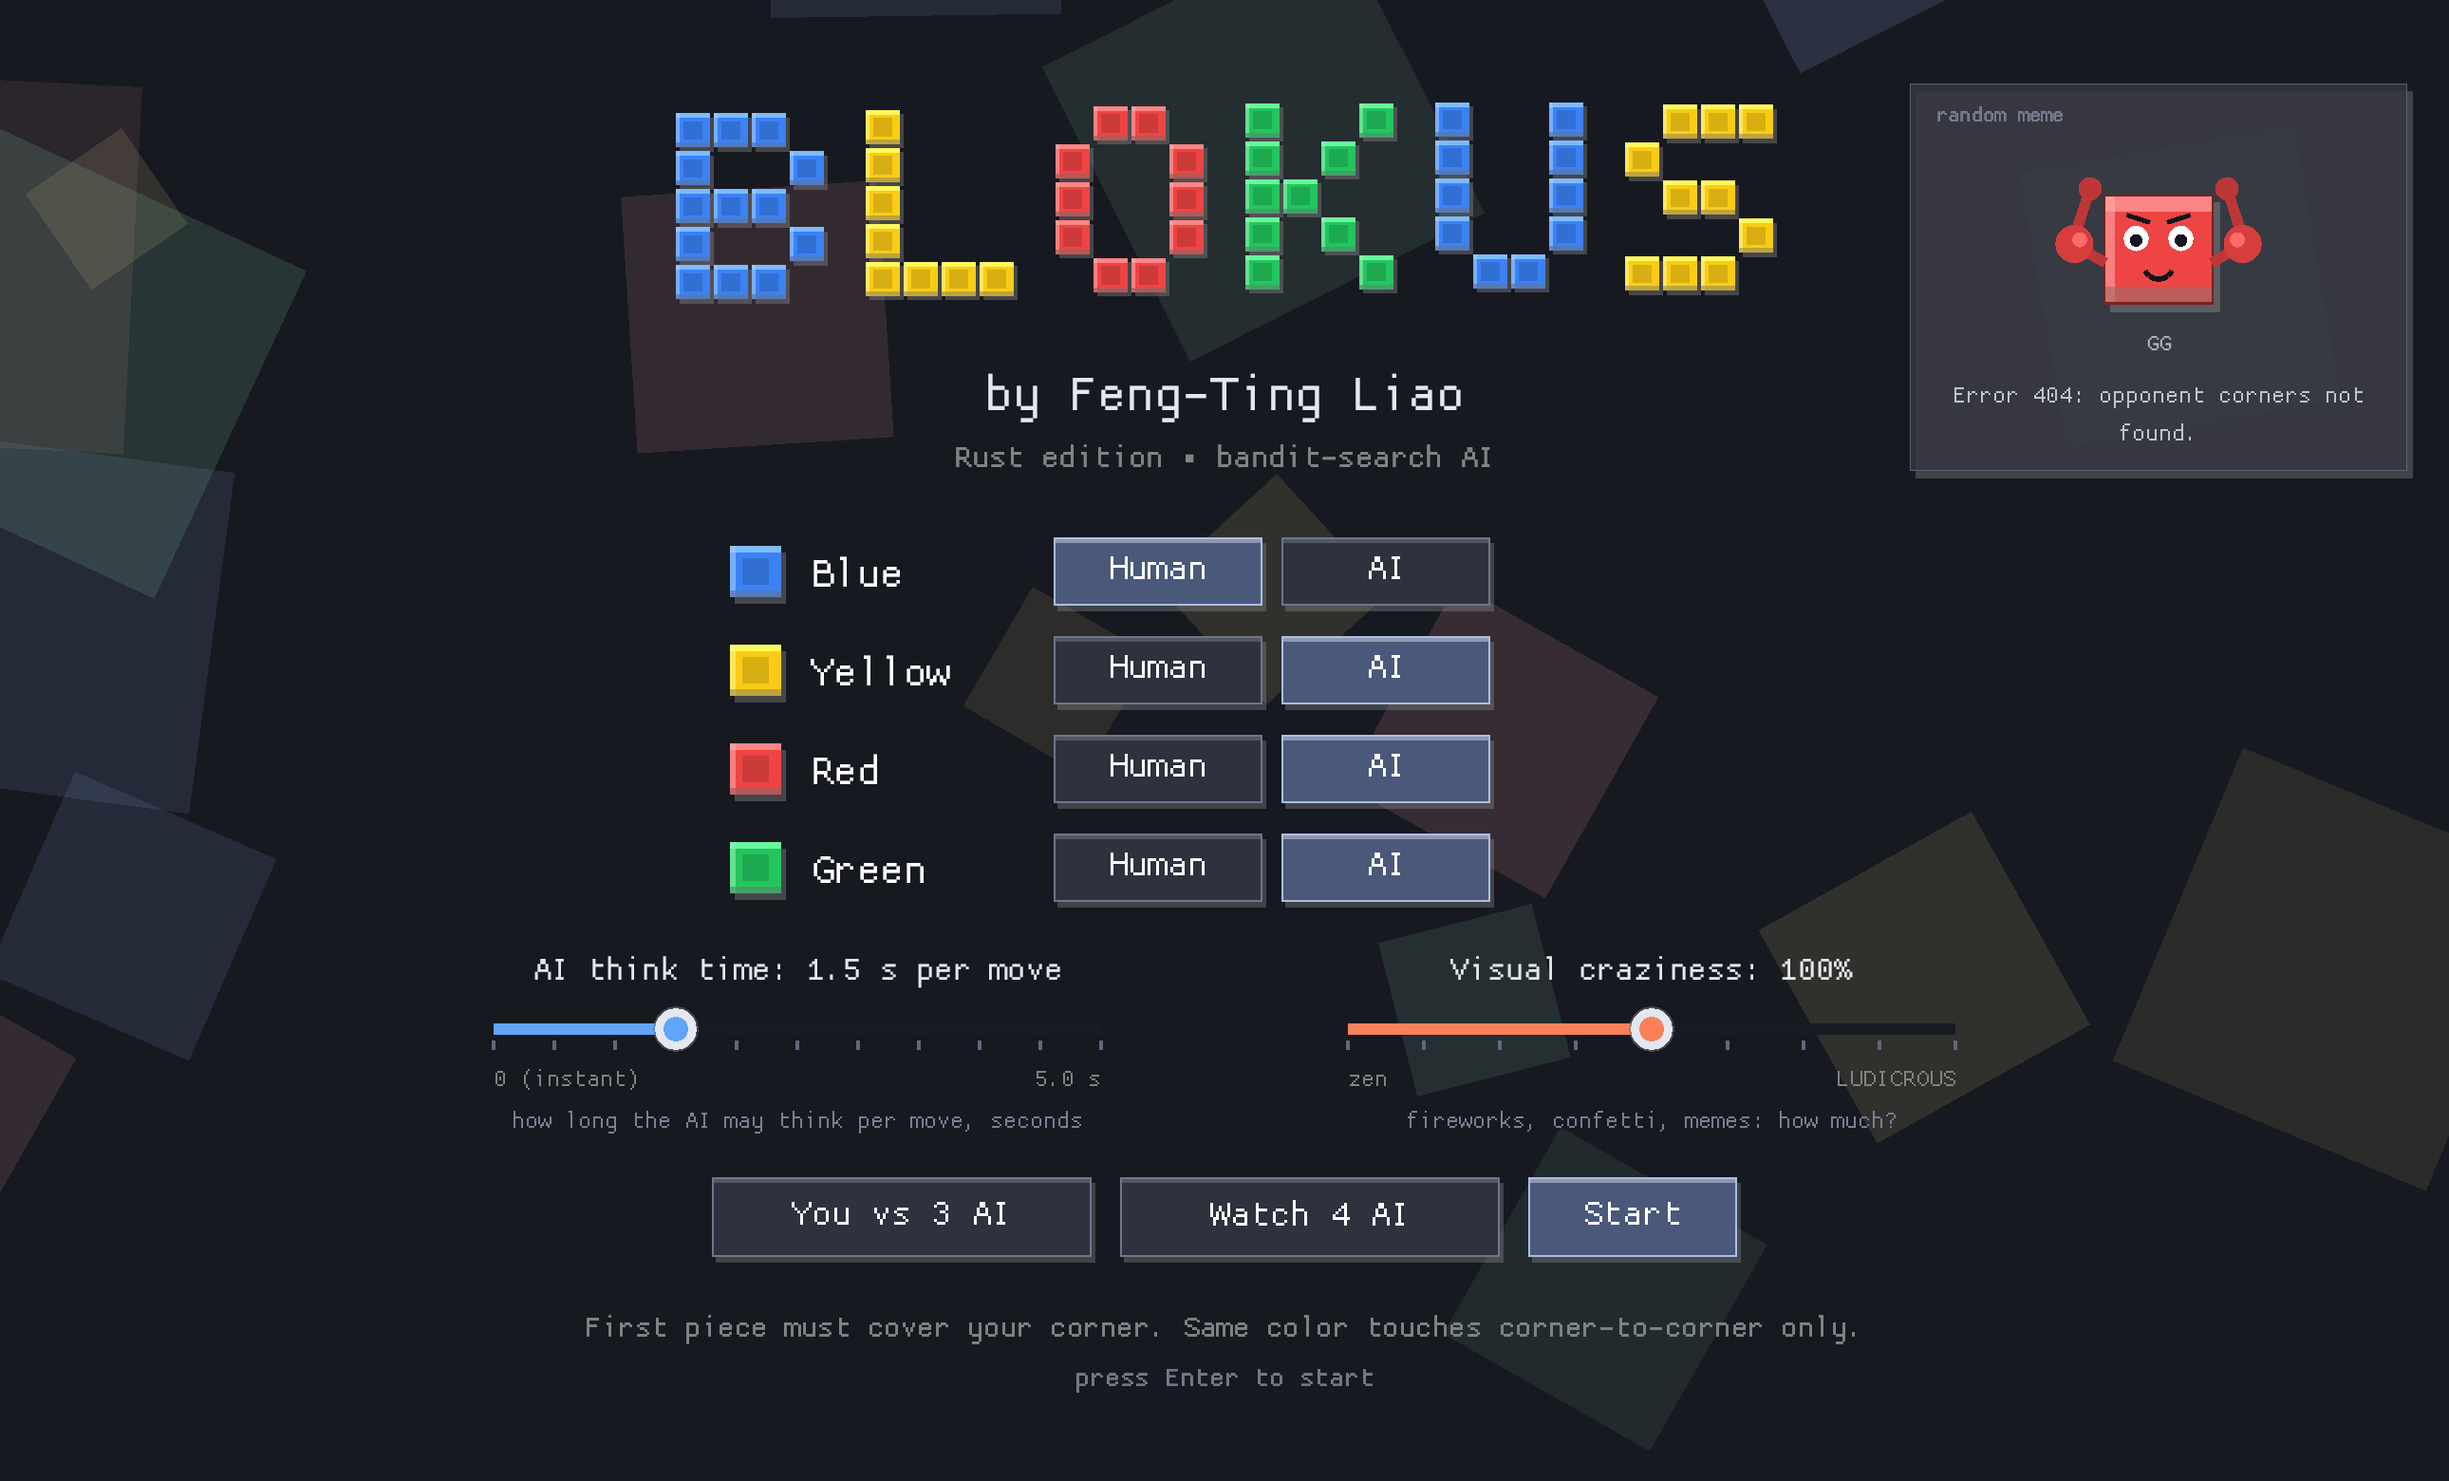
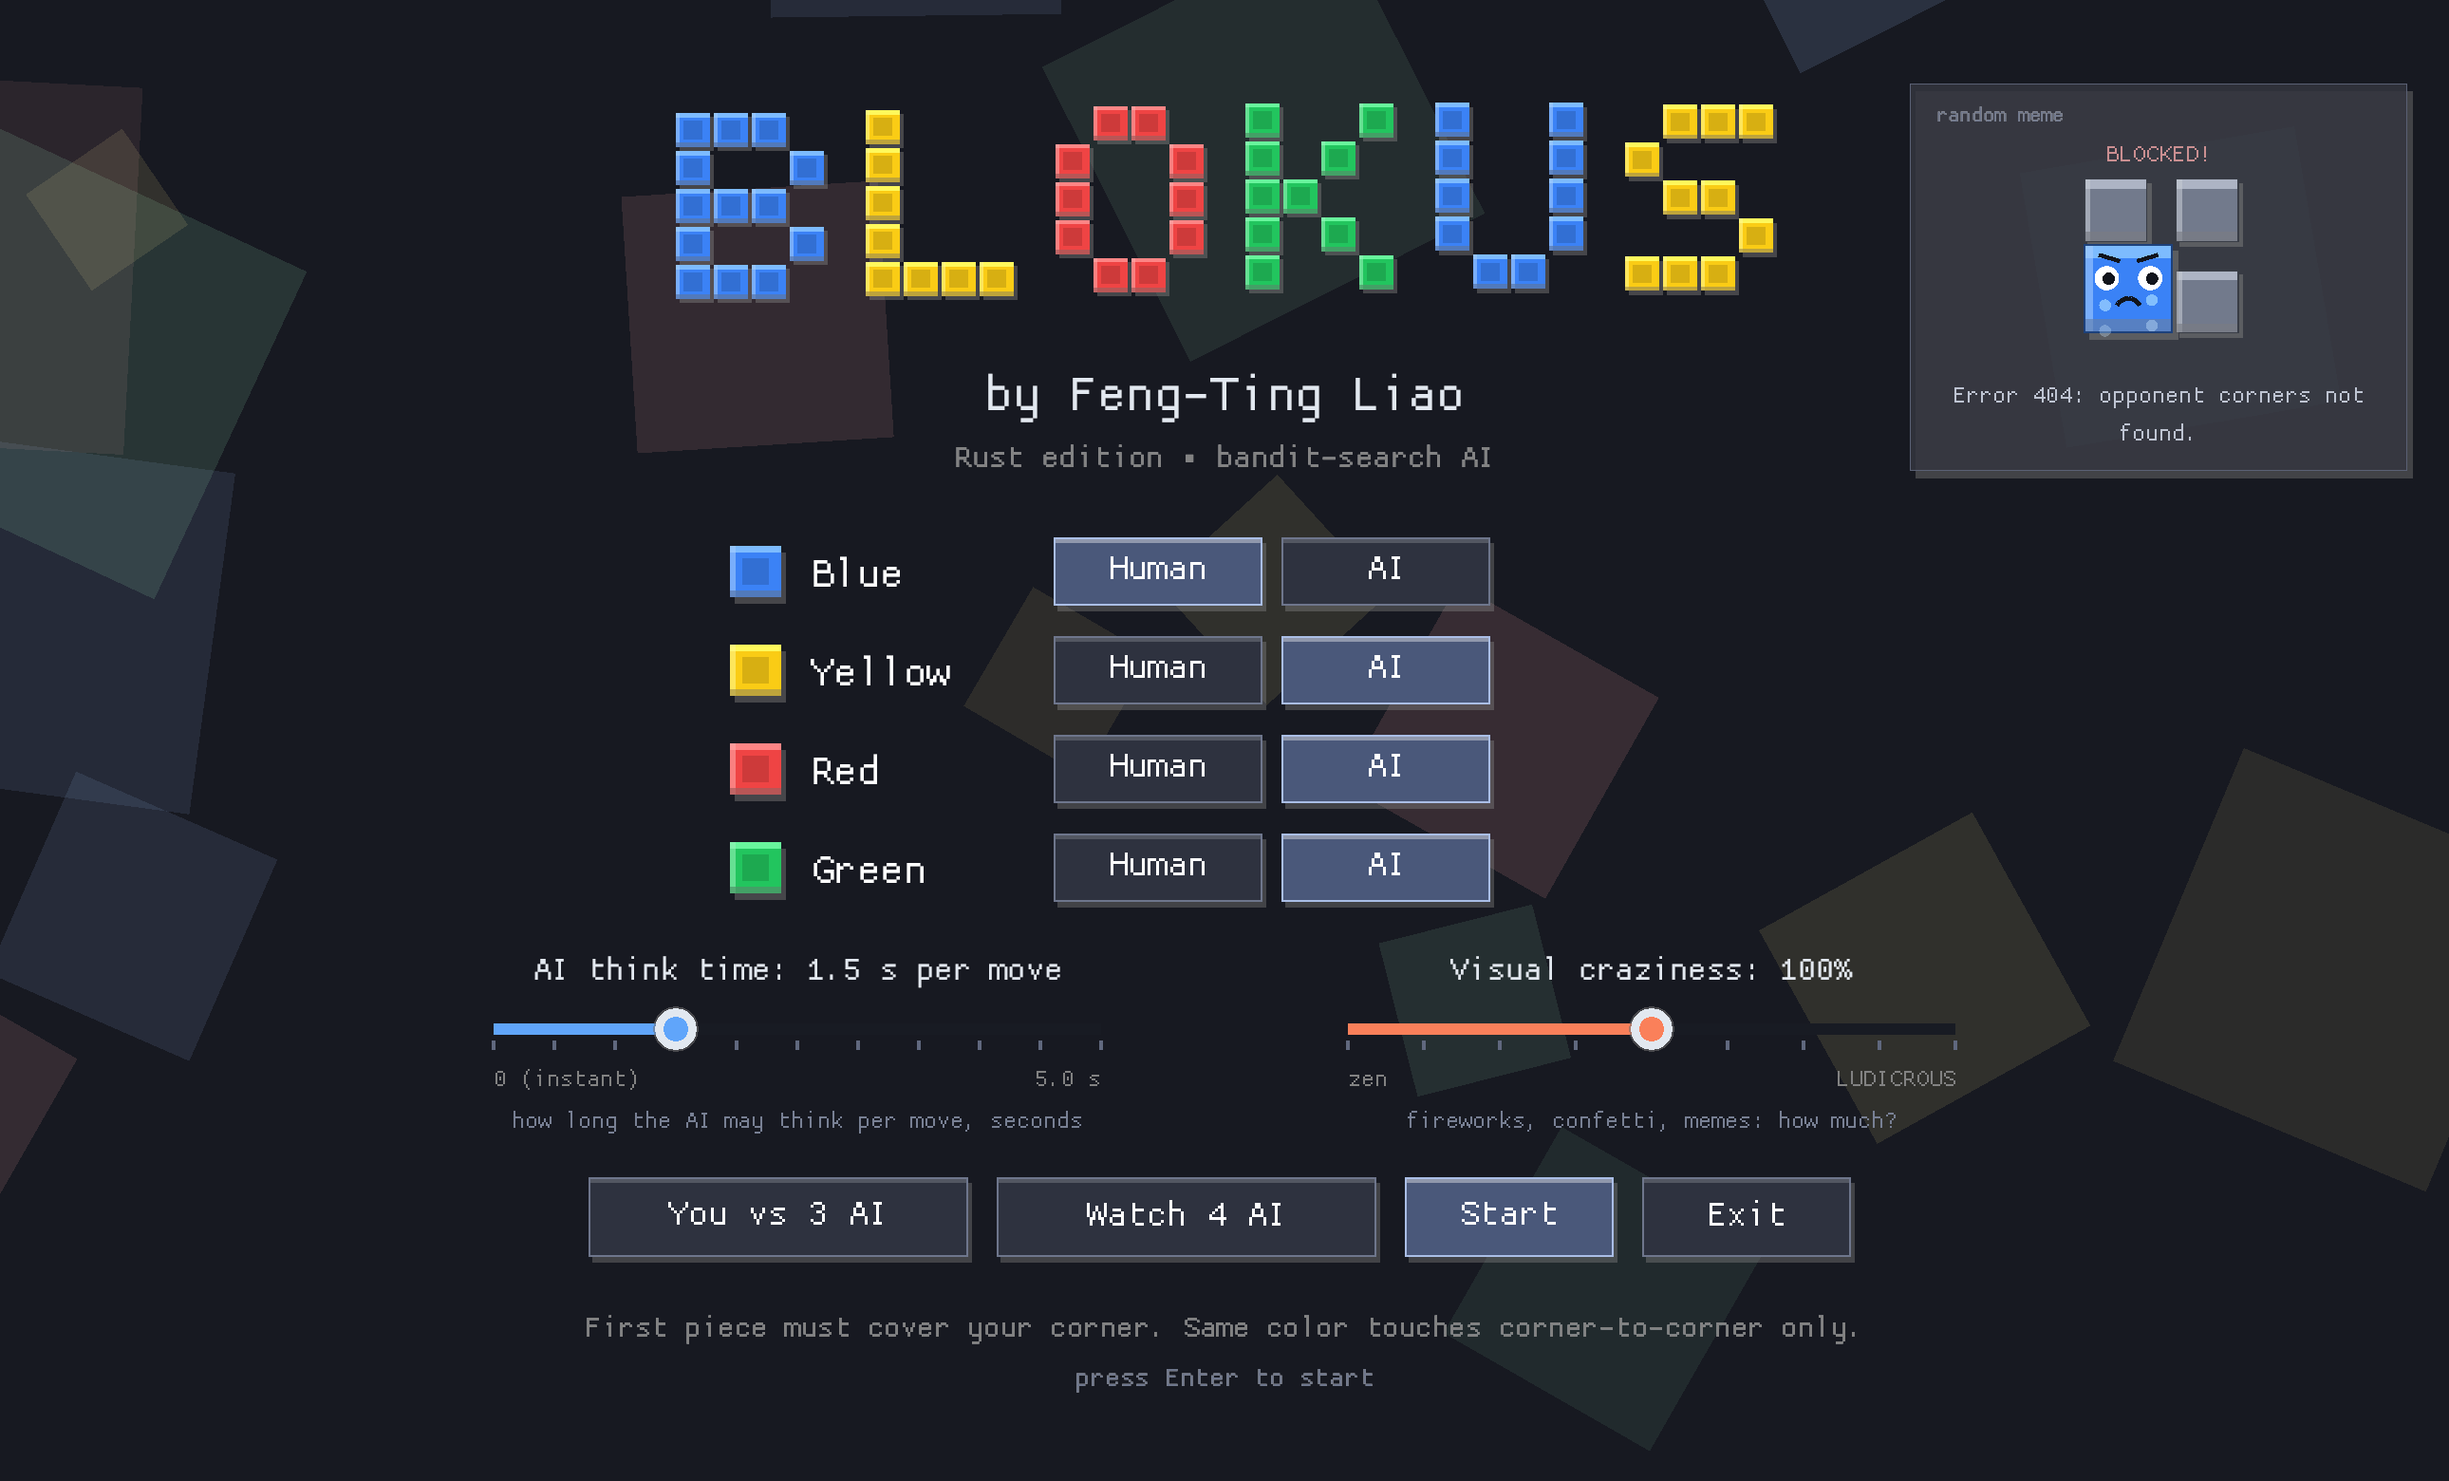
v2.3: fix music overlap, add crossfades, shuffle tracks, menu/exit buttons
- Fix: rotation started the next gameplay track without stopping the
  previous looped one, stacking layers every ~20 s; every path is now
  stop-before-start, guaranteeing one audible track at a time
- Crossfade: gameplay tracks fade in over the first 1.5 s of a slot
  and fade out over the last 1.5 s (per-frame volume ramps, respects
  mute); the 20-second full-plays rule is unchanged
- Gameplay playlist order is now randomized: each rotation (and each
  new game) picks a uniformly random track different from the current
- In-game "Menu" button abandons the game back to the setup screen,
  discarding any in-flight AI search
- "Exit" button on the setup screen closes the game

diff --git a/src/main.rs b/src/main.rs
@@ -15,7 +15,7 @@ mod audio;
 mod cartoons;
 mod memes;
 
-use macroquad::audio::{PlaySoundParams, play_sound, stop_sound};
+use macroquad::audio::{PlaySoundParams, play_sound, set_sound_volume, stop_sound};
 
 const CELL: f32 = 34.0;
 const BOARD_X: f32 = 30.0;
@@ -35,6 +35,9 @@ const THINK_MAX: f32 = 5.0;
 const CRAZY_MAX: f32 = 2.0;
 /// Lifetime of the block-taunt popup, seconds.
 const POPUP_TTL: f32 = 2.8;
+/// Base gameplay-music volume and the crossfade length at slot boundaries.
+const GAME_VOL: f32 = 0.35;
+const FADE_SECS: f64 = 1.5;
 
 fn player_color(p: usize) -> Color {
     match p {
@@ -138,6 +141,8 @@ struct App {
     track: MusicTrack,
     /// Index into the rotating gameplay playlist.
     game_idx: usize,
+    /// Wall-clock time when the current gameplay track started (fade-in).
+    game_started: f64,
     /// Wall-clock time when the current gameplay track ends (rotation point).
     game_next_at: f64,
 }
@@ -179,6 +184,7 @@ impl App {
             muted: false,
             track: MusicTrack::Silent,
             game_idx: 0,
+            game_started: 0.0,
             game_next_at: 0.0,
         }
     }
@@ -219,16 +225,30 @@ impl App {
                     // on a play boundary, so no mid-phrase cuts); longer
                     // pieces get one full play.
                     let plays = if *dur >= 20.0 { 1.0 } else { (20.0 / dur).floor().max(1.0) };
-                    play_sound(snd, PlaySoundParams { looped: true, volume: 0.35 });
+                    // Start silent; sync_music ramps the volume up per frame.
+                    play_sound(snd, PlaySoundParams { looped: true, volume: 0.0 });
+                    self.game_started = get_time();
                     // Plus a short breath between styles.
-                    self.game_next_at = get_time() + plays * dur + 0.7;
+                    self.game_next_at = self.game_started + plays * dur + 0.7;
                 }
             }
         }
     }
 
-    /// Keep the music in sync with the current screen, and rotate the
-    /// gameplay playlist when the current track ends. Called once per frame.
+    /// Random playlist index, uniformly chosen among the tracks OTHER than
+    /// the current one (0 if the playlist has fewer than two tracks).
+    fn pick_game_track(&mut self) -> usize {
+        let n = self.sounds.as_ref().map_or(1, |s| s.game.len().max(1));
+        if n <= 1 {
+            return 0;
+        }
+        (self.game_idx + 1 + (self.rng.next() % (n as u64 - 1)) as usize) % n
+    }
+
+    /// Keep the music in sync with the current screen, rotate the gameplay
+    /// playlist when the current slot ends, and drive the slot crossfade.
+    /// Called once per frame. Every path stops the outgoing track before a
+    /// new one starts, so at most one music track is ever audible.
     fn sync_music(&mut self) {
         let desired = match self.screen {
             Screen::Setup => MusicTrack::Menu,
@@ -238,11 +258,30 @@ impl App {
         if desired != self.track {
             self.stop_music();
             self.track = desired;
+            if desired == MusicTrack::Game {
+                // Fresh game: random first track too.
+                self.game_idx = self.pick_game_track();
+            }
             self.start_music();
         } else if self.track == MusicTrack::Game && !self.muted && get_time() >= self.game_next_at {
-            let n = self.sounds.as_ref().map_or(1, |s| s.game.len().max(1));
-            self.game_idx = (self.game_idx + 1) % n;
+            // Slot over: stop the outgoing track BEFORE advancing the index
+            // (skipping this stop is what used to stack tracks every ~20 s),
+            // then pick a random different track.
+            self.stop_music();
+            self.game_idx = self.pick_game_track();
             self.start_music();
+        }
+        // Crossfade: ramp gameplay volume up over the first FADE_SECS of a
+        // slot and back down over the final FADE_SECS before the rotation.
+        if self.track == MusicTrack::Game && !self.muted {
+            if let Some(s) = &self.sounds {
+                if let Some((snd, _)) = s.game.get(self.game_idx) {
+                    let now = get_time();
+                    let fade_in = ((now - self.game_started) / FADE_SECS).clamp(0.0, 1.0);
+                    let fade_out = ((self.game_next_at - now) / FADE_SECS).clamp(0.0, 1.0);
+                    set_sound_volume(snd, GAME_VOL * fade_in.min(fade_out) as f32);
+                }
+            }
         }
     }
 
@@ -289,6 +328,21 @@ impl App {
 
     fn toast(&mut self, msg: String) {
         self.toasts.push((msg, 2.2));
+    }
+
+    /// Abandon whatever is on screen and return to the setup menu. Drops any
+    /// AI worker handle (its result is ignored, same pattern as start_game);
+    /// sync_music swaps the track on the next frame.
+    fn abandon_to_menu(&mut self) {
+        self.ai_handle = None;
+        self.sel = None;
+        self.paused = false;
+        self.pace = 0.0;
+        self.toasts.clear();
+        self.particles.clear();
+        self.popup = None;
+        self.roll_setup_meme();
+        self.screen = Screen::Setup;
     }
 
     fn start_game(&mut self) {
@@ -752,7 +806,9 @@ fn draw_tray(app: &mut App) {
 // Player cards + side panel
 // ---------------------------------------------------------------------------
 
-fn draw_player_cards(app: &App) {
+/// Player cards + controls block; returns true if the in-game Menu button
+/// (shown only while playing) was clicked.
+fn draw_player_cards(app: &App) -> bool {
     let t = get_time() as f32;
     let x = SIDE_X;
     draw_text("Players", x, TRAY_Y - 18.0, 26.0, LIGHTGRAY);
@@ -817,6 +873,12 @@ fn draw_player_cards(app: &App) {
     if app.paused {
         draw_text("PAUSED", x, y + 44.0, 20.0, GOLD);
     }
+    // In-game Menu button: abandon the game and return to setup.
+    let mut menu_clicked = false;
+    if matches!(app.screen, Screen::Playing) {
+        menu_clicked = button(x, y + 58.0, SIDE_W, 36.0, "Menu", false);
+    }
+    menu_clicked
 }
 
 // ---------------------------------------------------------------------------
@@ -951,7 +1013,7 @@ fn draw_playing(app: &mut App) {
     draw_header(app);
     draw_board(app);
     draw_tray(app);
-    draw_player_cards(app);
+    let menu_clicked = draw_player_cards(app);
 
     let p = app.gs.current;
     // Ghost + placement for the human player.
@@ -991,6 +1053,10 @@ fn draw_playing(app: &mut App) {
         ty += 44.0;
     }
     app.toasts.retain(|(_, ttl)| *ttl > 0.0);
+
+    if menu_clicked {
+        app.abandon_to_menu();
+    }
 }
 
 // ---------------------------------------------------------------------------
@@ -1131,16 +1197,19 @@ fn draw_setup(app: &mut App) {
     let cd2 = measure_text(cap2, None, 16, 1.0);
     draw_text(cap2, rx + (sw2 - cd2.width) / 2.0, y + 84.0, 16.0, Color::from_rgba(120, 128, 148, 255));
 
-    // Presets + start.
+    // Presets + start + exit.
     y += 110.0;
-    if button(cx - 270.0, y, 200.0, 42.0, "You vs 3 AI", false) {
+    if button(cx - 335.0, y, 200.0, 42.0, "You vs 3 AI", false) {
         app.is_ai = [false, true, true, true];
     }
-    if button(cx - 55.0, y, 200.0, 42.0, "Watch 4 AI", false) {
+    if button(cx - 120.0, y, 200.0, 42.0, "Watch 4 AI", false) {
         app.is_ai = [true; 4];
     }
-    if button(cx + 160.0, y, 110.0, 42.0, "Start", true) || is_key_pressed(KeyCode::Enter) {
+    if button(cx + 95.0, y, 110.0, 42.0, "Start", true) || is_key_pressed(KeyCode::Enter) {
         app.start_game();
+    }
+    if button(cx + 220.0, y, 110.0, 42.0, "Exit", false) {
+        std::process::exit(0);
     }
 
     let rules = "First piece must cover your corner. Same color touches corner-to-corner only.";
@@ -1303,8 +1372,7 @@ fn draw_game_over(app: &mut App) {
         app.start_game();
     }
     if button(bx + 190.0, y + 44.0, 170.0, 44.0, "Menu", false) {
-        app.roll_setup_meme();
-        app.screen = Screen::Setup;
+        app.abandon_to_menu();
     }
     draw_meme_card(app, bx - 30.0, by + 402.0, 560.0);
 }
